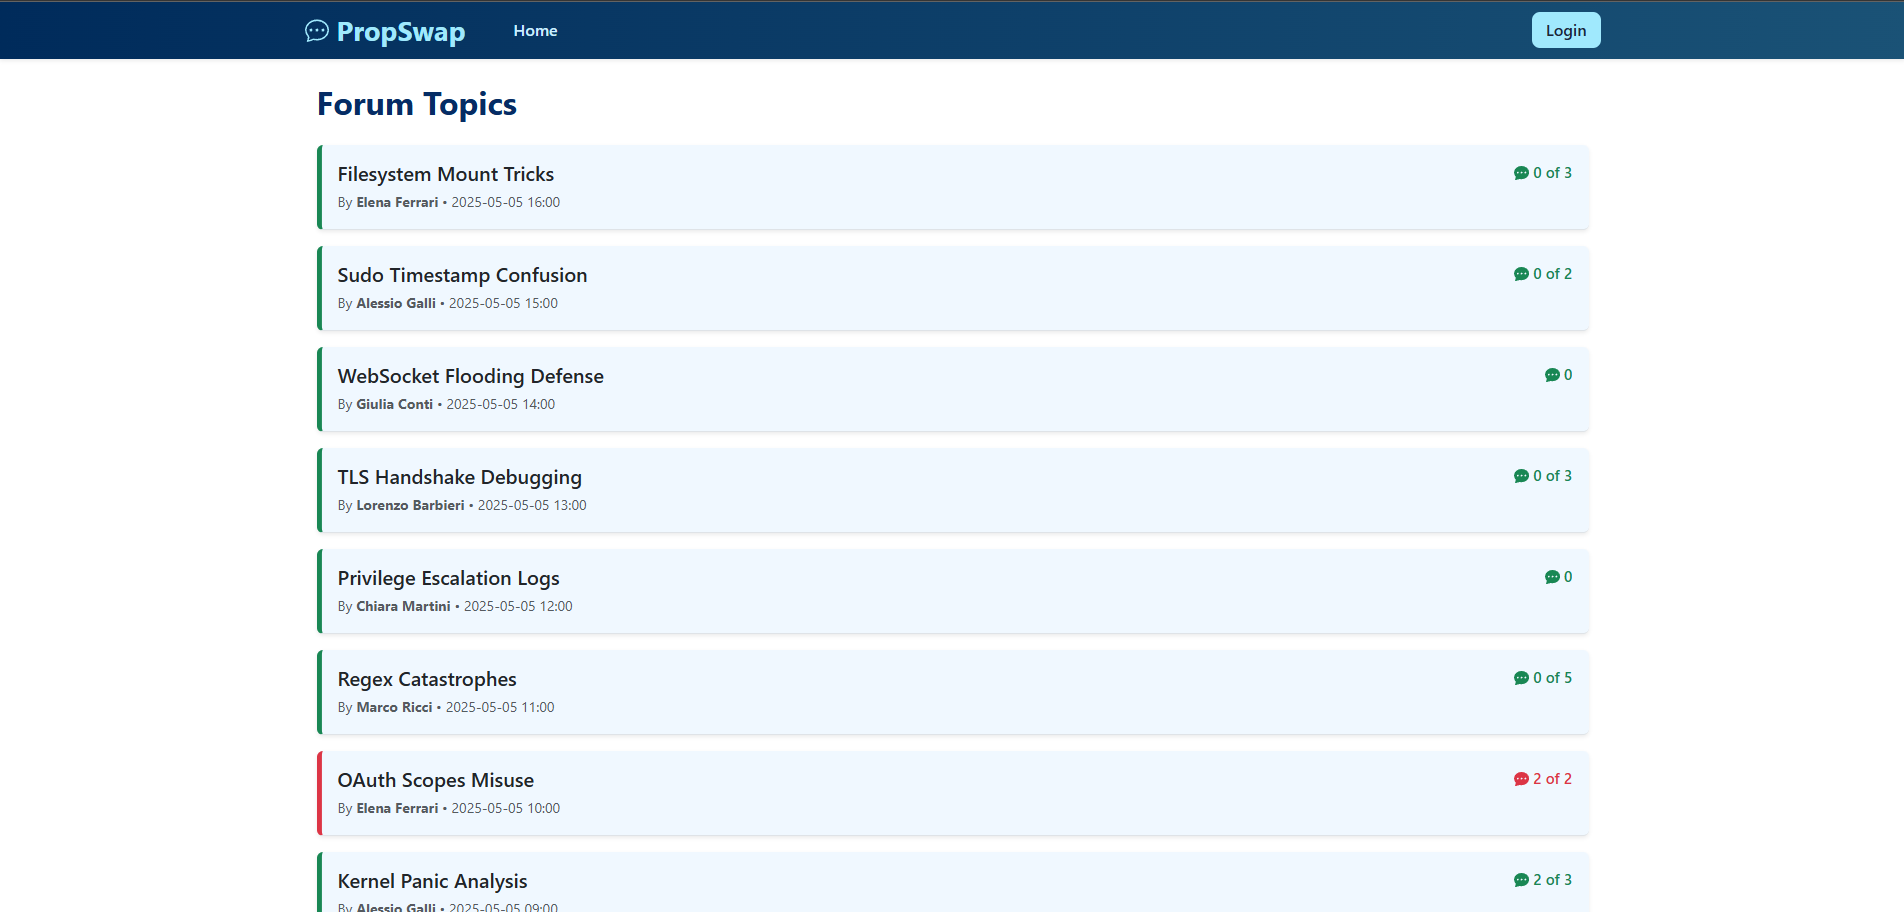
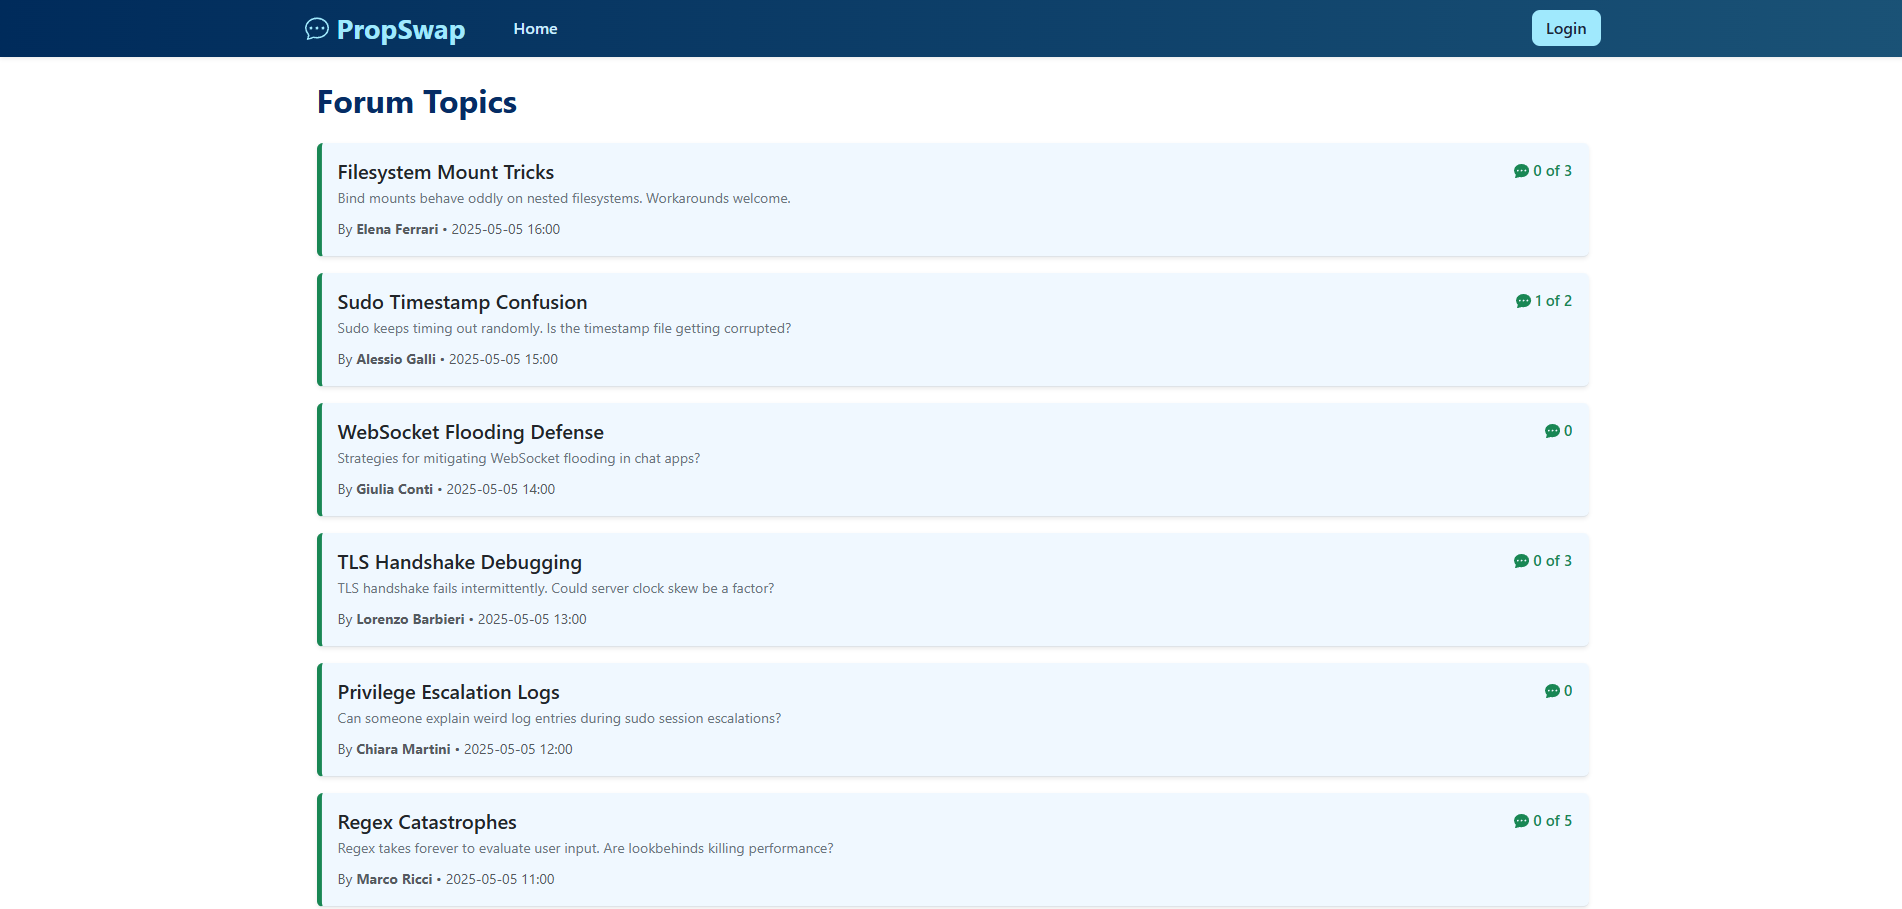
update the home-page and comment >= 0

diff --git a/client/src/pages/HomePage.jsx b/client/src/pages/HomePage.jsx
@@ -96,10 +96,14 @@ export default function HomePage() {
                 {/* Left column: post title and author information */}
                 <Col xs={12} md={8}>
                   <h5 className="mb-1 text-dark">{post.title}</h5>
+                  <p className="mb-2 text-secondary small" style={{ whiteSpace: 'pre-wrap' }}>
+                    {post.text.length > 200 ? post.text.slice(0, 200) + '…' : post.text}
+                  </p>
                   <small className="text-muted">
                     By <strong>{post.author || 'Anonymous'}</strong> •{' '}
                     {dayjs(post.timestamp).format(fmt)}
                   </small>
+
                 </Col>
 
                 {/* Right column: comment icon and comment count, with tooltip */}

diff --git a/server/routes/posts.js b/server/routes/posts.js
@@ -32,7 +32,7 @@ router.get('/posts/:id', async (req, res) => {
 router.post('/posts', isLoggedIn, [
   check('title').trim().notEmpty(),
   check('text').trim().notEmpty(),
-  check('maxComments').optional().isInt({ min: 1 })
+  check('maxComments').optional().isInt({ min: 0 })
 ], async (req, res) => {
   const errors = validationResult(req);
   if (!errors.isEmpty()) return res.status(422).json({ errors: errors.array() });

diff --git a/client/src/pages/NewPostPage.jsx b/client/src/pages/NewPostPage.jsx
@@ -95,7 +95,7 @@ function NewPostPage() {
               <Form.Label className="fw-semibold">Maximum Comments (optional)</Form.Label>
               <Form.Control
                 type="number"
-                min="1"
+                min="0"
                 placeholder="e.g. 10"
                 value={maxComments}
                 onChange={(e) => setMaxComments(e.target.value)}
